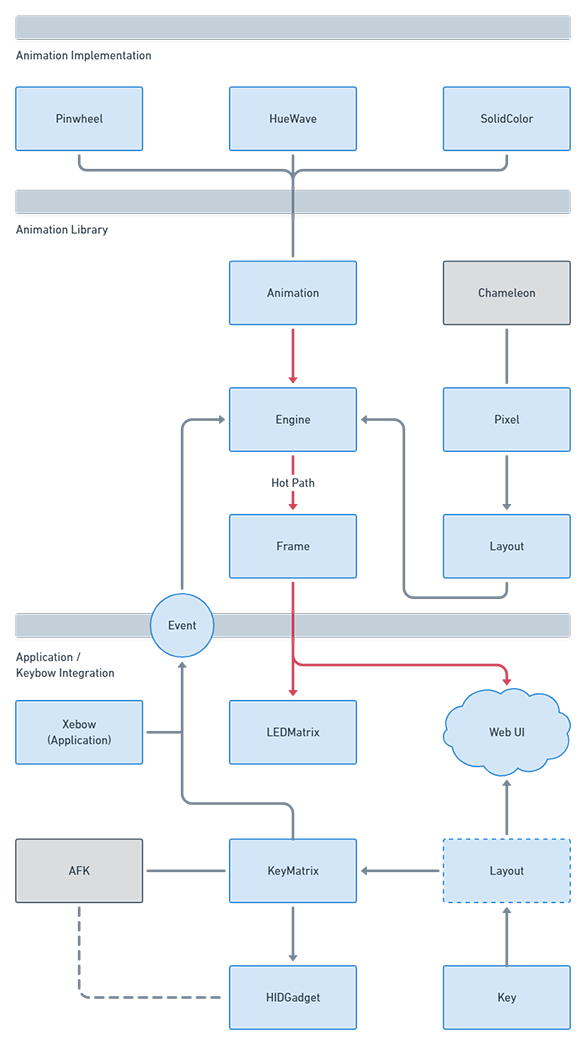
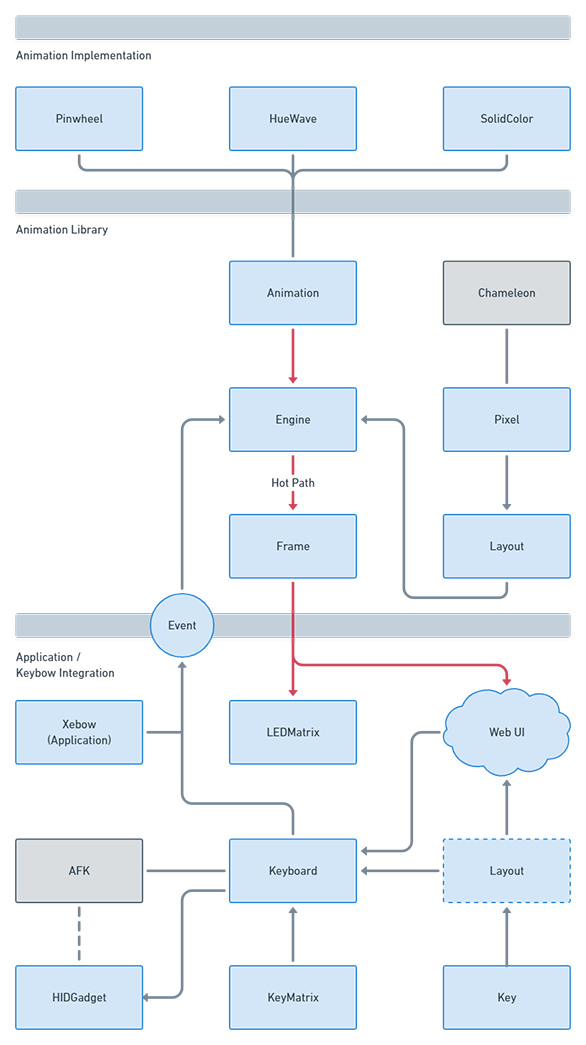
Add keyboard component to the component flow diagram.

diff --git a/design/architecture/component-flow.md b/design/architecture/component-flow.md
@@ -69,6 +69,10 @@ A key on a keyboard.
 Notes:
 - This sounds generic and may be in the wrong place. AFK candidate?
 
+#### Keyboard
+
+The logical functionality of a keyboard. It accepts physical or emulated events of keys being pressed/released, handles keyboard state, and outputs keyboard events (like triggering HID reports).
+
 #### KeyMatrix
 
 The Keybow's key matrix.
